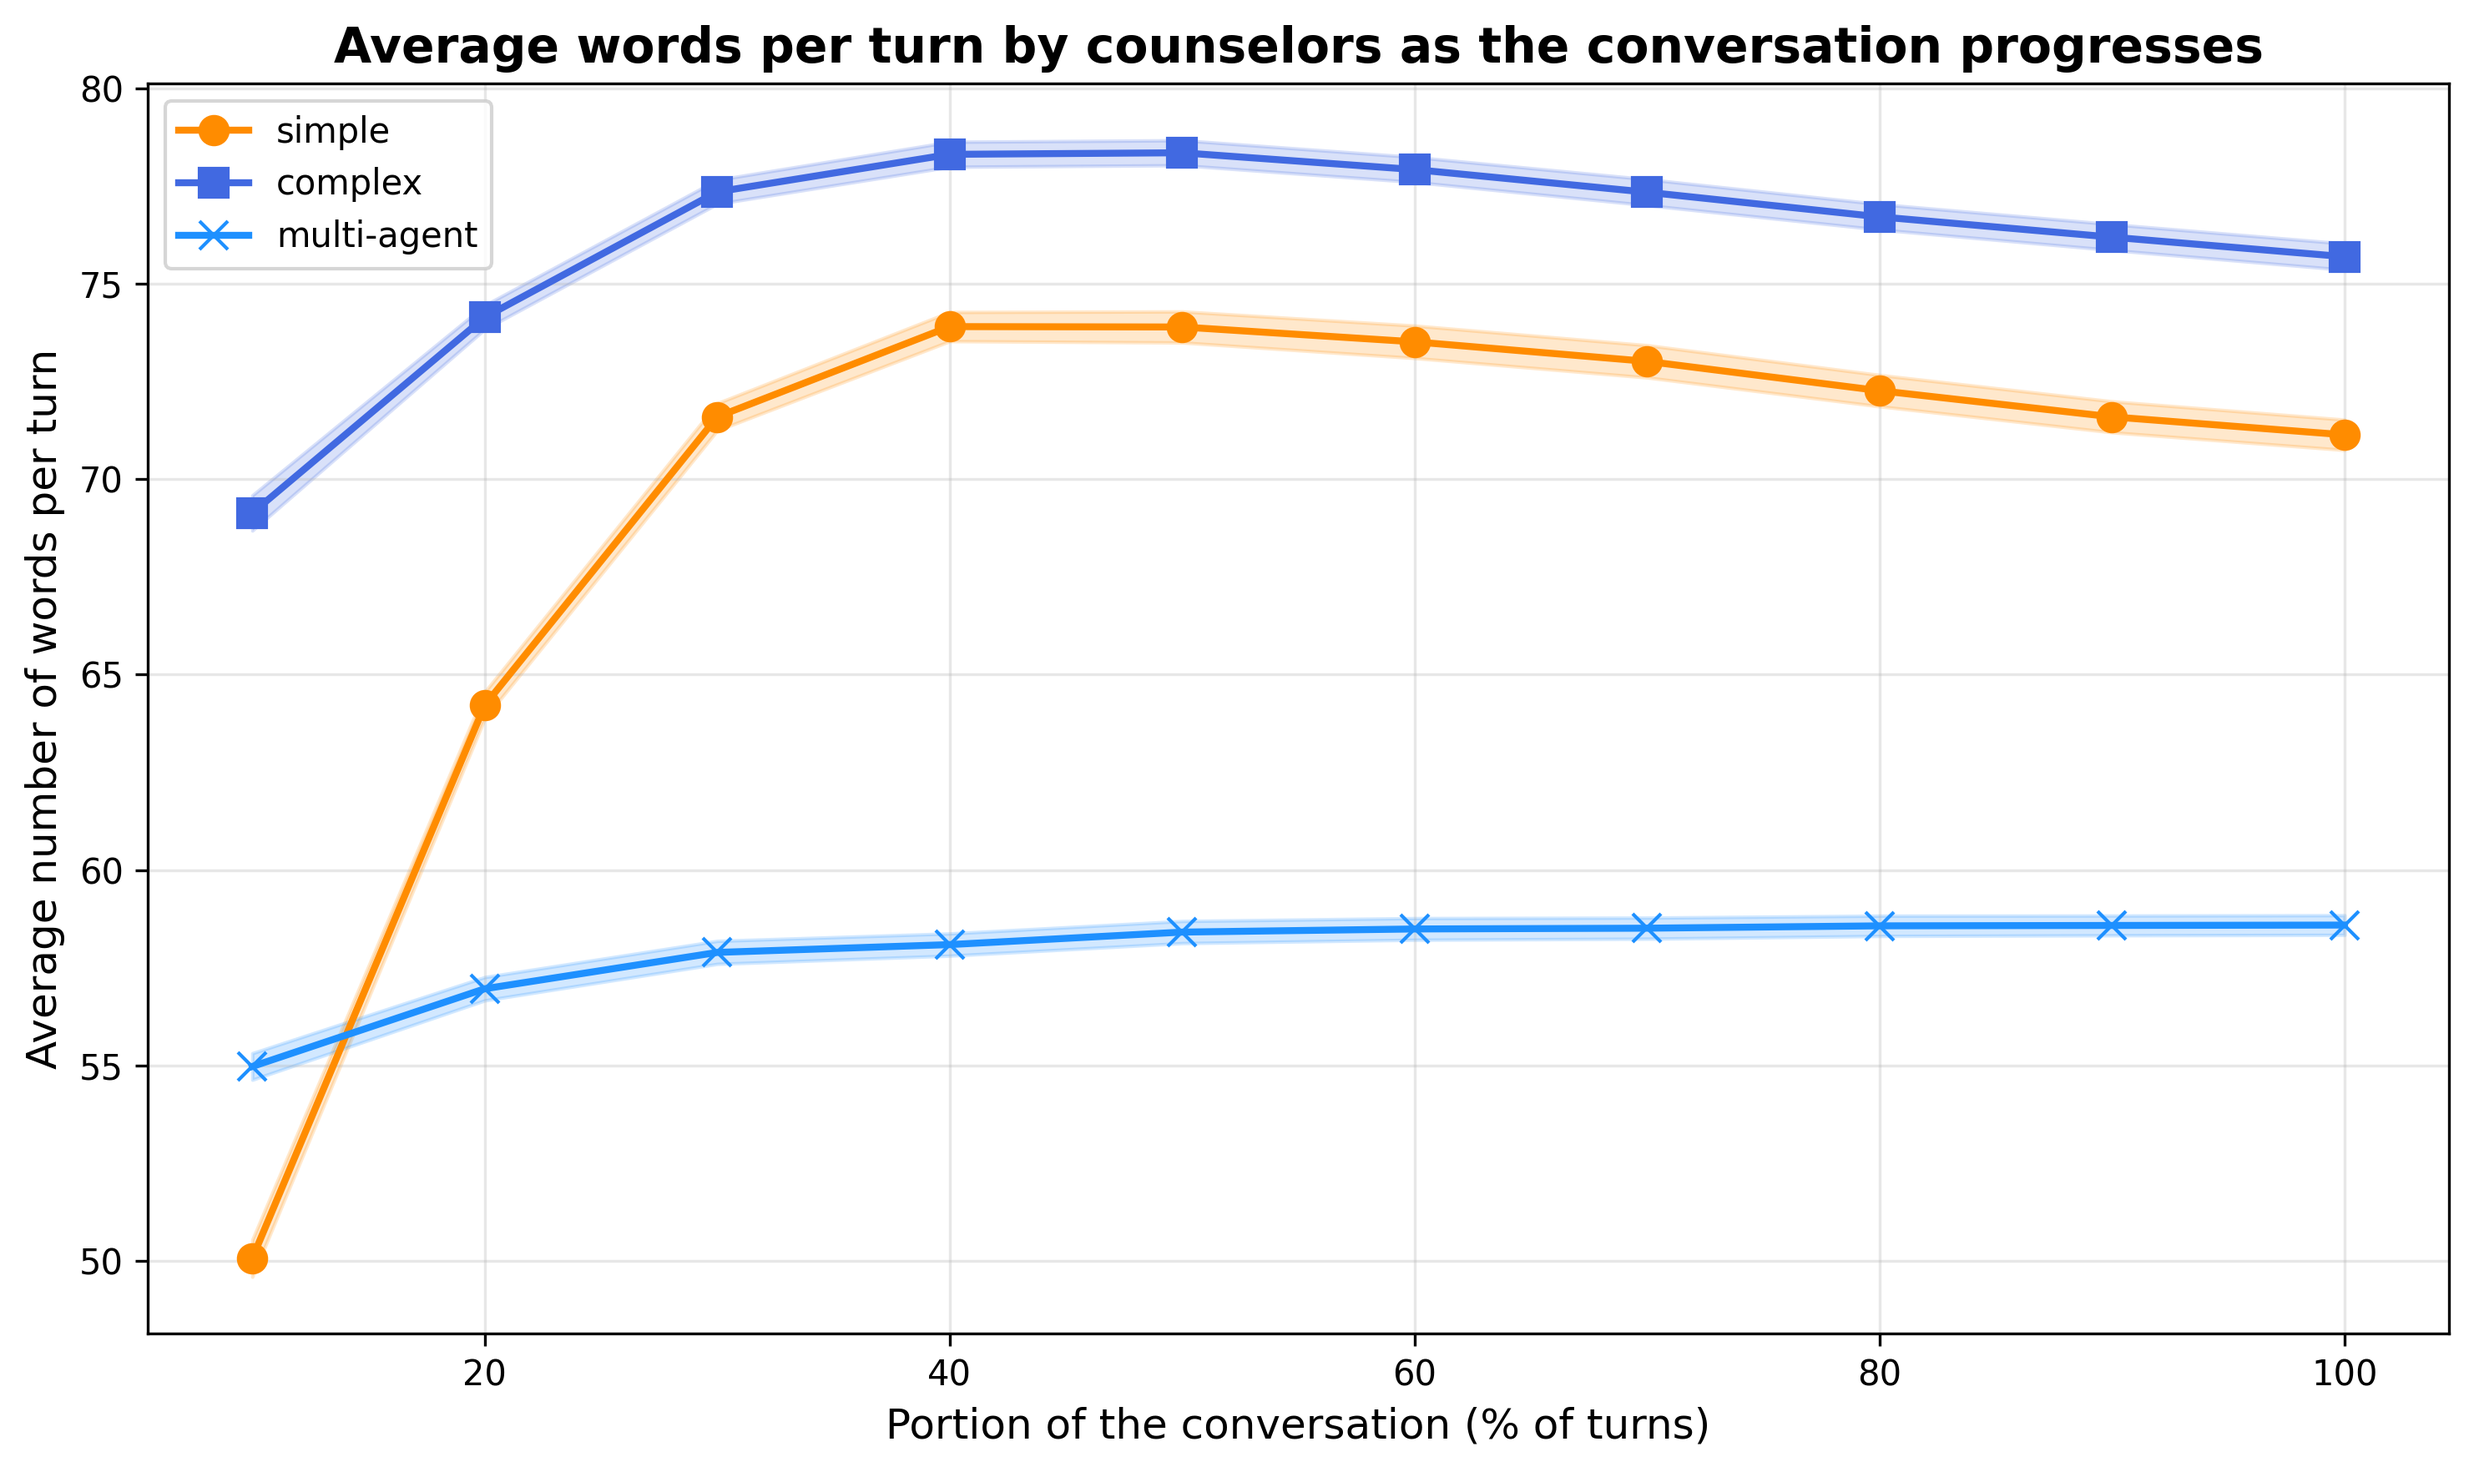
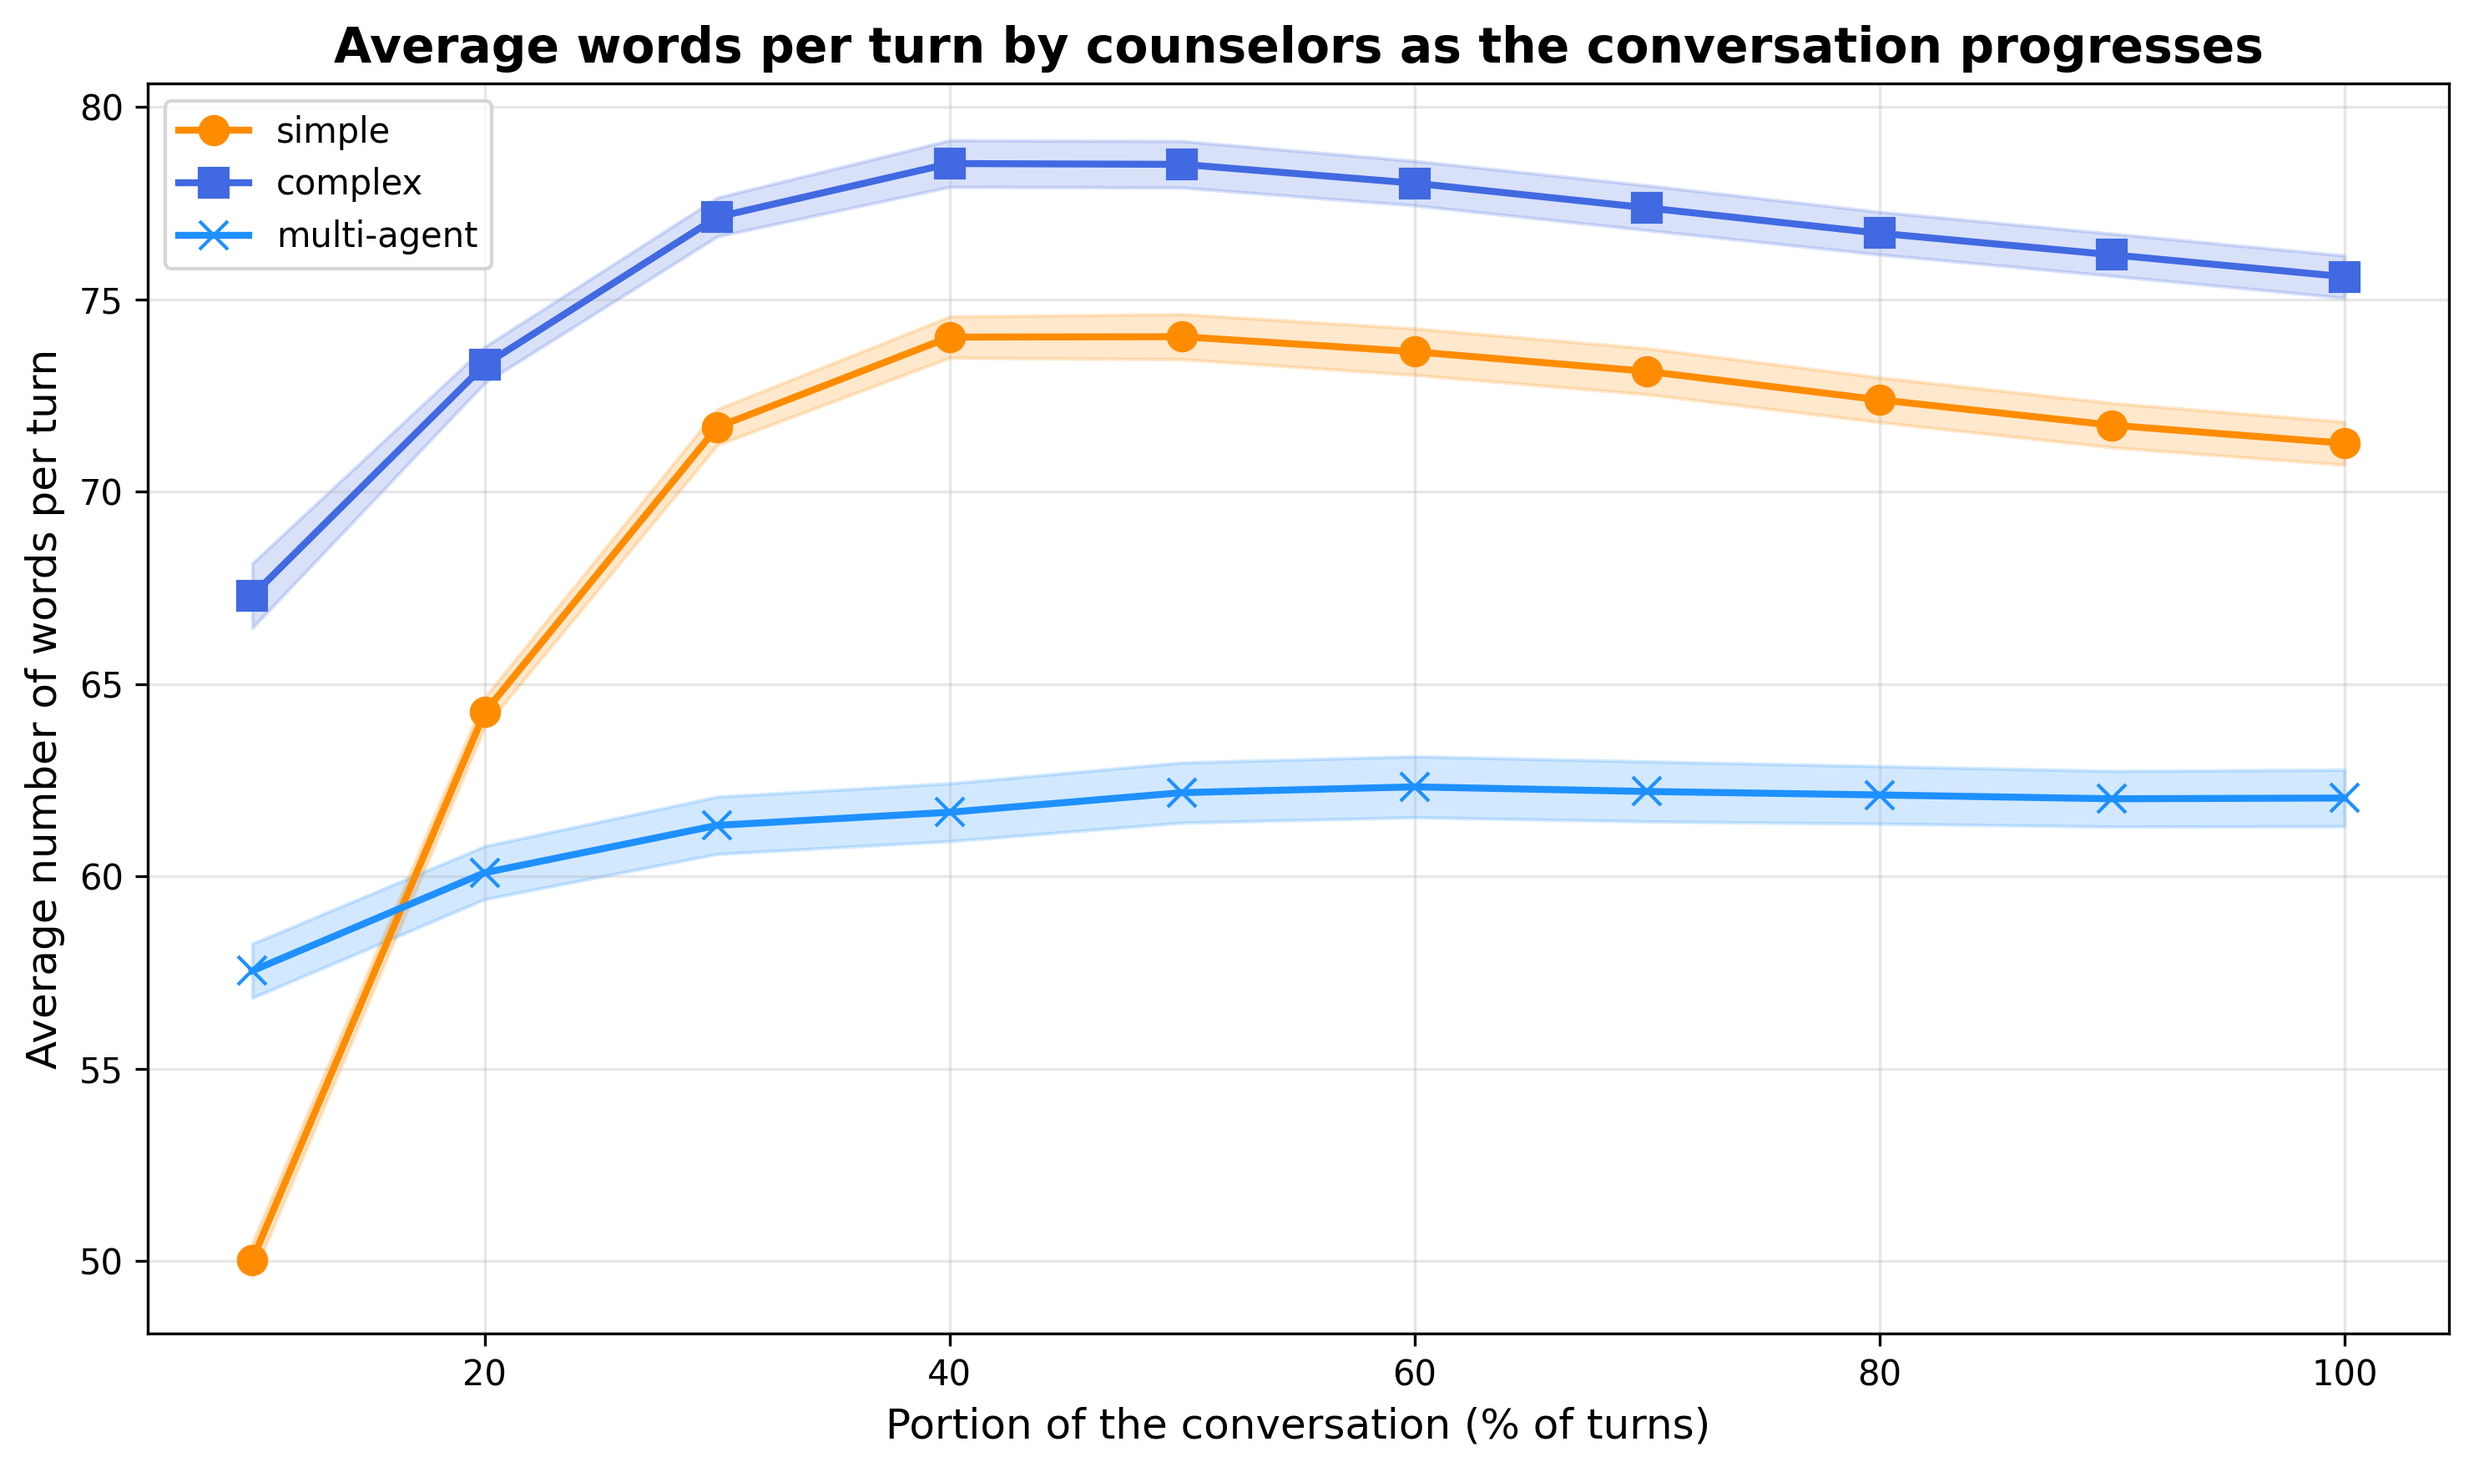
Update word analysis

diff --git a/Eval/word_analysis.py b/Eval/word_analysis.py
@@ -121,8 +121,10 @@ def parse_transcript_turns(file_path):
 
 def get_session_info(session_dir):
     """
-    Extract timestamp from session folder name.
-    Supports both old format (session_export_{timestamp}) and new format (session_export_patient_{id}_{timestamp}_{uuid}).
+    Extract timestamp and patient_id from session folder name.
+    
+    Returns:
+        tuple: (datetime, patient_id) where patient_id can be None for old format
     """
     basename = os.path.basename(session_dir)
     
@@ -130,10 +132,11 @@ def get_session_info(session_dir):
     new_format_pattern = r'session_export_patient_(.+?)_(\d{4}-\d{2}-\d{2}_\d{2}-\d{2}-\d{2})(?:_[a-f0-9-]+)?$'
     match = re.match(new_format_pattern, basename)
     if match:
+        patient_id = match.group(1)
         date_str = match.group(2)
         try:
             timestamp = datetime.strptime(date_str, "%Y-%m-%d_%H-%M-%S")
-            return timestamp
+            return timestamp, patient_id
         except ValueError:
             pass
     
@@ -143,9 +146,9 @@ def get_session_info(session_dir):
         # Try with UUID first, then without
         date_str = re.sub(r'_[a-f0-9-]+$', '', date_str)
         timestamp = datetime.strptime(date_str, "%Y-%m-%d_%H-%M-%S")
-        return timestamp
+        return timestamp, None  # No patient_id in old format
     except ValueError:
-        return None
+        return None, None
 
 def get_test_run_info(test_dir):
     metadata_path = os.path.join(test_dir, 'metadata.json')
@@ -157,12 +160,12 @@ def get_test_run_info(test_dir):
                 mode = data.get('therapist_mode', 'unknown')
                 try:
                     timestamp = datetime.strptime(ts_str, "%Y%m%d_%H%M%S")
-                    return timestamp, mode
+                    return timestamp, mode, ts_str
                 except ValueError:
                     pass 
         except Exception:
             pass
-    return None, None
+    return None, None, None
 
 def aggregate_metrics(root_dir):
     saved_sessions_dir = os.path.join(root_dir, 'Saved_Sessions')
@@ -174,70 +177,116 @@ def aggregate_metrics(root_dir):
     if os.path.exists(saved_tests_dir):
         for entry in os.scandir(saved_tests_dir):
             if entry.is_dir():
-                ts, mode = get_test_run_info(entry.path)
+                ts, mode, ts_str = get_test_run_info(entry.path)
                 if ts:
-                    test_runs.append({'timestamp': ts, 'mode': mode, 'path': entry.path})
+                    test_runs.append({'timestamp': ts, 'mode': mode, 'ts_str': ts_str, 'path': entry.path})
     test_runs.sort(key=lambda x: x['timestamp'])
 
     if not test_runs:
         print("No test runs found.")
         return
 
-    # 2. Collect Data per Agent
-    agent_data = {} # mode -> list of session_data dicts
+    # 2. Collect Data per Agent - now grouped by (timestamp, patient_id, mode)
+    matched_data = {}  # key: (ts_str, patient_id, mode) -> value: list of session data
 
     if os.path.exists(saved_sessions_dir):
         for entry in os.scandir(saved_sessions_dir):
             if entry.is_dir():
-                ts = get_session_info(entry.path)
-                if not ts:
+                session_result = get_session_info(entry.path)
+                if not session_result or session_result[0] is None:
                     continue
                 
+                session_ts, patient_id = session_result
+                # Use 'unknown' as patient_id for old format sessions
+                if patient_id is None:
+                    patient_id = 'unknown'
+                
                 # Link to test run
-                matching_mode = None
+                matching_run = None
                 for i in range(len(test_runs) - 1, -1, -1):
                     run = test_runs[i]
-                    if run['timestamp'] <= ts:
-                        matching_mode = run['mode']
+                    if run['timestamp'] <= session_ts:
+                        matching_run = run
                         break
                 
-                if matching_mode:
+                if matching_run:
                     transcript_path = os.path.join(entry.path, 'interview_transcript.txt')
                     if not os.path.exists(transcript_path):
                         continue
                     
                     data = parse_transcript_turns(transcript_path)
                     if data:
-                        if matching_mode not in agent_data:
-                            agent_data[matching_mode] = []
-                        agent_data[matching_mode].append(data)
+                        # Create key for grouping: (timestamp, patient_id, therapist_mode)
+                        key = (matching_run['ts_str'], patient_id, matching_run['mode'])
+                        
+                        # Initialize entry if it doesn't exist
+                        if key not in matched_data:
+                            matched_data[key] = []
+                        
+                        # Append this session's data to the list (for averaging across folds)
+                        matched_data[key].append(data)
 
     # Check if we found any data
-    if not agent_data:
+    if not matched_data:
         print("No matching sessions found for any test runs.")
         return
 
-    # 3. Aggregate and Print
-    for mode, sessions in agent_data.items():
-        print(f"\n### Agent Type: {mode} ({len(sessions)} sessions) ###")
+    # 3. First aggregate by patient (average across folds), then by mode
+    mode_patient_data = {}  # mode -> list of patient-averaged data
+    
+    for key, session_list in matched_data.items():
+        ts_str, patient_id, mode = key
+        
+        if mode not in mode_patient_data:
+            mode_patient_data[mode] = []
+        
+        # Determine max turns for this patient across all their folds
+        max_turns = max(len(s['c_acc_avg']) for s in session_list)
+        
+        # Average across folds for this patient
+        patient_avg_data = {
+            'c_acc_avg': [],
+            'cl_acc_avg': [],
+            'ratios': []
+        }
+        
+        for turn_idx in range(max_turns):
+            # Collect values for this turn from all folds
+            c_vals = [s['c_acc_avg'][turn_idx] for s in session_list if turn_idx < len(s['c_acc_avg'])]
+            cl_vals = [s['cl_acc_avg'][turn_idx] for s in session_list if turn_idx < len(s['cl_acc_avg'])]
+            r_vals = [s['ratios'][turn_idx] for s in session_list if turn_idx < len(s['ratios'])]
+            
+            if c_vals:
+                patient_avg_data['c_acc_avg'].append(sum(c_vals) / len(c_vals))
+            if cl_vals:
+                patient_avg_data['cl_acc_avg'].append(sum(cl_vals) / len(cl_vals))
+            if r_vals:
+                patient_avg_data['ratios'].append(sum(r_vals) / len(r_vals))
+        
+        # Add this patient's averaged data to the mode's list
+        mode_patient_data[mode].append(patient_avg_data)
+
+    # 4. Aggregate across patients for each mode
+    for mode, patient_sessions in mode_patient_data.items():
+        print(f"\n### Agent Type: {mode} ({len(patient_sessions)} patients) ###")
         print(f"{'Turn_Pair':<10} | {'Avg Counselor Acc':<20} | {'Avg Client Acc':<20} | {'Avg Ratio':<15}")
         print("-" * 75)
         
-        # Determine max turns for this agent
+        # Determine max turns for this mode
         max_turns = 0
-        for s in sessions:
+        for s in patient_sessions:
             max_turns = max(max_turns, len(s['c_acc_avg']))
             
         output_rows = []
         output_rows.append("Turn_Pair,Counselor_Acc_Avg,Counselor_Acc_Std,Client_Acc_Avg,Client_Acc_Std,Acc_Ratio,Acc_Ratio_Std,Count")
 
         for i in range(max_turns):
-            # Collect values for this turn index from all valid sessions
+            # Collect values for this turn index from all patients
             c_vals = []
             cl_vals = []
             r_vals = []
             
-            for s in sessions:
+            for s in patient_sessions:
                 if i < len(s['c_acc_avg']):
                     c_vals.append(s['c_acc_avg'][i])
                     cl_vals.append(s['cl_acc_avg'][i])
@@ -250,7 +299,7 @@ def aggregate_metrics(root_dir):
             avg_cl = sum(cl_vals) / len(cl_vals)
             avg_r = sum(r_vals) / len(r_vals)
             
-            # Calculate standard deviations
+            # Calculate standard deviations across patients
             import numpy as np
             std_c = np.std(c_vals, ddof=1) if len(c_vals) > 1 else 0
             std_cl = np.std(cl_vals, ddof=1) if len(cl_vals) > 1 else 0
